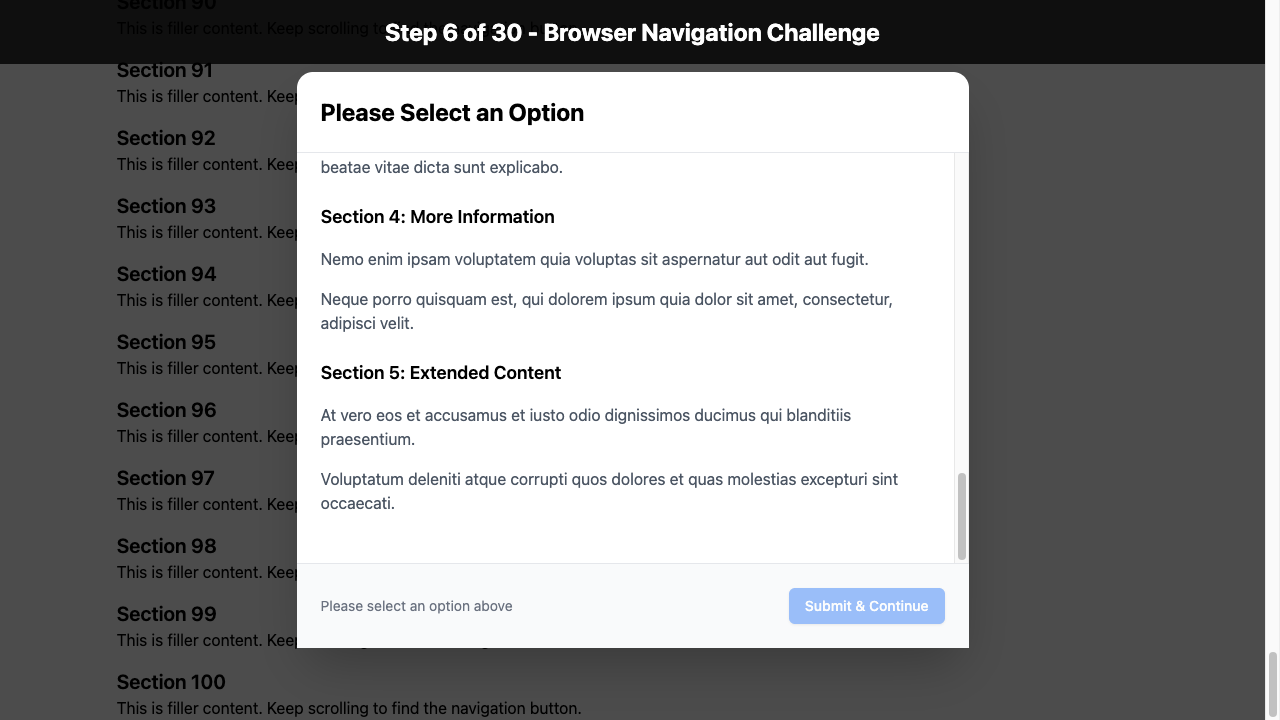
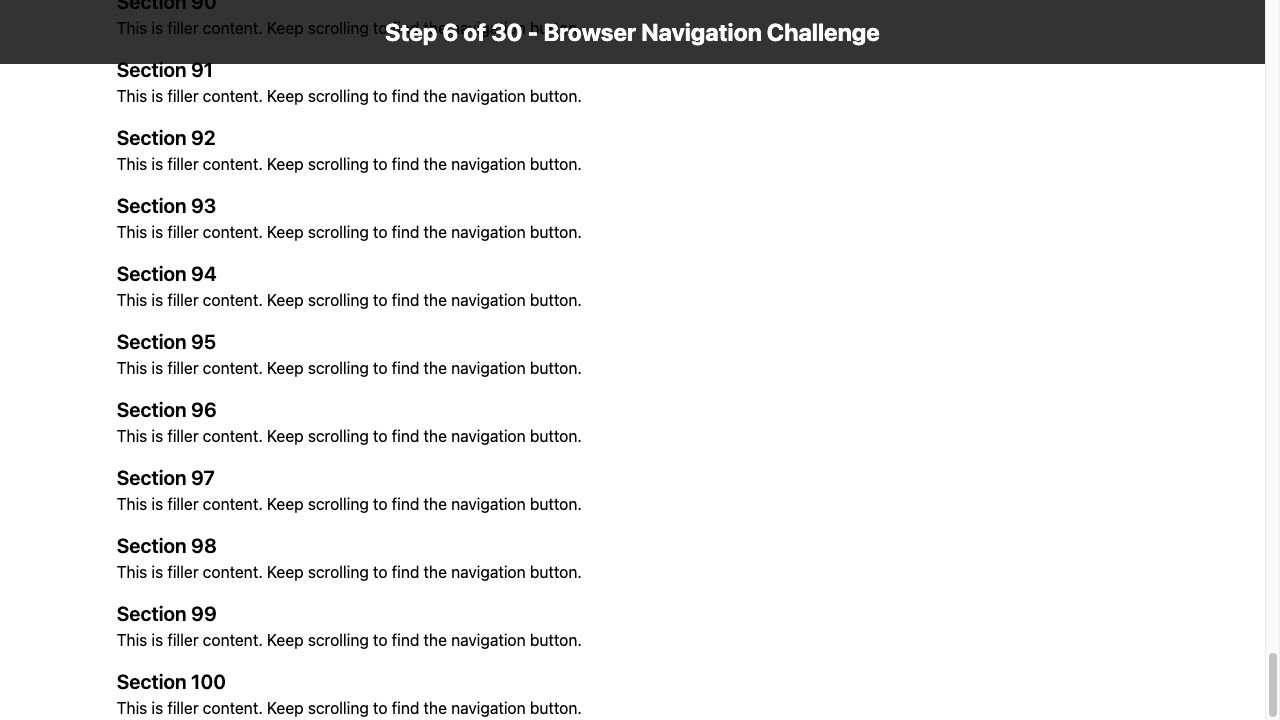
v18: Handle modal radio + main page navigation button

diff --git a/agent.js b/agent.js
@@ -1,6 +1,6 @@
 /**
- * Browser Challenge Agent v17
- * Mouse wheel scrolling + tab into modal
+ * Browser Challenge Agent v18
+ * Handle both modal radio + main page navigation button
  */
 const { chromium } = require('playwright');
 const fs = require('fs');
@@ -58,7 +58,7 @@ async function extractCode(page) {
     
     const text = document.body.innerText;
     const patterns = [/\b[A-Z]{6}\b/g, /\b\d{6}\b/g, /\b[A-Z0-9]{6}\b/g];
-    const skip = ['SUBMIT', 'SELECT', 'OPTION', 'BUTTON', 'SCROLL', 'COOKIE', 'PLEASE', 'ACCEPT', 'REVEAL', 'WRONG', 'HIDDEN'];
+    const skip = ['SUBMIT', 'SELECT', 'OPTION', 'BUTTON', 'SCROLL', 'COOKIE', 'PLEASE', 'ACCEPT', 'REVEAL', 'WRONG', 'HIDDEN', 'SECTIO'];
     for (const p of patterns) {
       const matches = text.match(p);
       if (matches) {
@@ -82,36 +82,16 @@ async function closePopups(page) {
   });
 }
 
-// Use mouse wheel on modal + tab navigation
+// Handle modal with radio buttons
 async function handleScrollableModal(page) {
-  // Find scrollable element in modal and get its position
-  const scrollInfo = await page.evaluate(() => {
-    const scrollables = [];
-    document.querySelectorAll('*').forEach(el => {
-      const style = window.getComputedStyle(el);
-      if ((style.overflowY === 'auto' || style.overflowY === 'scroll') && 
-          el.scrollHeight > el.clientHeight + 20) {
-        const rect = el.getBoundingClientRect();
-        scrollables.push({
-          x: rect.x + rect.width / 2,
-          y: rect.y + rect.height / 2,
-          height: el.scrollHeight
-        });
-      }
-    });
-    return scrollables[0] || null;
+  // Check if modal exists
+  const hasModal = await page.evaluate(() => {
+    return !!document.querySelector('.fixed, [role="dialog"]');
   });
   
-  if (scrollInfo) {
-    // Move mouse to scrollable area and use wheel
-    await page.mouse.move(scrollInfo.x, scrollInfo.y);
-    for (let i = 0; i < 10; i++) {
-      await page.mouse.wheel(0, 300);
-      await delay(50);
-    }
-  }
+  if (!hasModal) return false;
   
-  // Also use JS scroll
+  // Scroll within modal
   await page.evaluate(() => {
     document.querySelectorAll('*').forEach(el => {
       const style = window.getComputedStyle(el);
@@ -122,15 +102,9 @@ async function handleScrollableModal(page) {
     });
   });
   
-  await delay(200);
+  await delay(150);
   
-  // Tab through elements to find radios
-  for (let i = 0; i < 15; i++) {
-    await page.keyboard.press('Tab');
-    await delay(30);
-  }
-  
-  // Now try to find and click correct radio
+  // Click correct radio
   const clicked = await page.evaluate(() => {
     const radios = Array.from(document.querySelectorAll('input[type="radio"]'));
     
@@ -147,9 +121,9 @@ async function handleScrollableModal(page) {
     return false;
   });
   
-  await delay(150);
+  await delay(100);
   
-  // Submit
+  // Submit modal
   await page.evaluate(() => {
     document.querySelectorAll('button').forEach(btn => {
       const text = btn.textContent || '';
@@ -160,6 +134,59 @@ async function handleScrollableModal(page) {
   });
   
   return clicked;
+}
+
+// NEW: Find and click navigation button on main page
+async function findNavigationButton(page) {
+  // Scroll through page looking for navigation buttons
+  for (let scrollPos = 0; scrollPos <= 10; scrollPos++) {
+    await page.evaluate((pos) => {
+      window.scrollTo(0, document.body.scrollHeight * pos / 10);
+    }, scrollPos);
+    await delay(100);
+    
+    // Look for navigation-style buttons or links
+    const clicked = await page.evaluate(() => {
+      const navTexts = ['continue', 'next', 'proceed', 'go', 'navigate', 'click here', 'button'];
+      
+      // Check buttons
+      for (const btn of document.querySelectorAll('button, a, [role="button"]')) {
+        const text = (btn.textContent || '').toLowerCase();
+        const isNav = navTexts.some(t => text.includes(t));
+        const isNotSubmit = !text.includes('submit');
+        
+        if (isNav && isNotSubmit && btn.offsetParent !== null) {
+          try { 
+            btn.scrollIntoView({ behavior: 'instant', block: 'center' });
+            btn.click(); 
+            return true;
+          } catch(e) {}
+        }
+      }
+      
+      // Also check for any prominent button that might be hidden
+      for (const btn of document.querySelectorAll('button')) {
+        const text = (btn.textContent || '').trim();
+        const rect = btn.getBoundingClientRect();
+        // Look for buttons with reasonable size, not standard form buttons
+        if (text.length > 0 && text.length < 30 && rect.width > 50 && rect.height > 20) {
+          const notForm = !text.toLowerCase().includes('submit');
+          if (notForm && btn.offsetParent !== null) {
+            try { 
+              btn.click(); 
+              return true;
+            } catch(e) {}
+          }
+        }
+      }
+      
+      return false;
+    });
+    
+    if (clicked) return true;
+  }
+  
+  return false;
 }
 
 async function handleDragDrop(page) {
@@ -235,8 +262,13 @@ async function solveStep(page, step) {
     await delay(30);
   }
   
+  // Try modal first
   await handleScrollableModal(page);
-  await delay(200);
+  await delay(150);
+  
+  // Then try navigation button
+  await findNavigationButton(page);
+  await delay(100);
   
   await closePopups(page);
   
@@ -268,8 +300,8 @@ async function solveStep(page, step) {
 
 async function run() {
   console.log('╔════════════════════════════════════════════╗');
-  console.log('║  Browser Challenge Agent v17               ║');
-  console.log('║  Mouse wheel + Tab navigation              ║');
+  console.log('║  Browser Challenge Agent v18               ║');
+  console.log('║  Modal radio + Navigation button           ║');
   console.log('╚════════════════════════════════════════════╝\n');
   
   metrics.startTime = Date.now();
@@ -326,7 +358,7 @@ async function run() {
         console.log(`  Code: ${code}`);
         await enterCode(page, code);
         console.log('  ✓ Submitted');
-        await delay(350);
+        await delay(300);
       } else {
         stuckCount++;
         if (stuckCount === 55) {
@@ -334,11 +366,6 @@ async function run() {
           console.log(`  [Stuck on step ${step}]`);
         }
         if (stuckCount > 75) {
-          await page.evaluate(() => {
-            document.querySelectorAll('button:not([disabled])').forEach(btn => {
-              try { btn.click(); } catch(e) {}
-            });
-          });
           stuckCount = 0;
         }
       }
